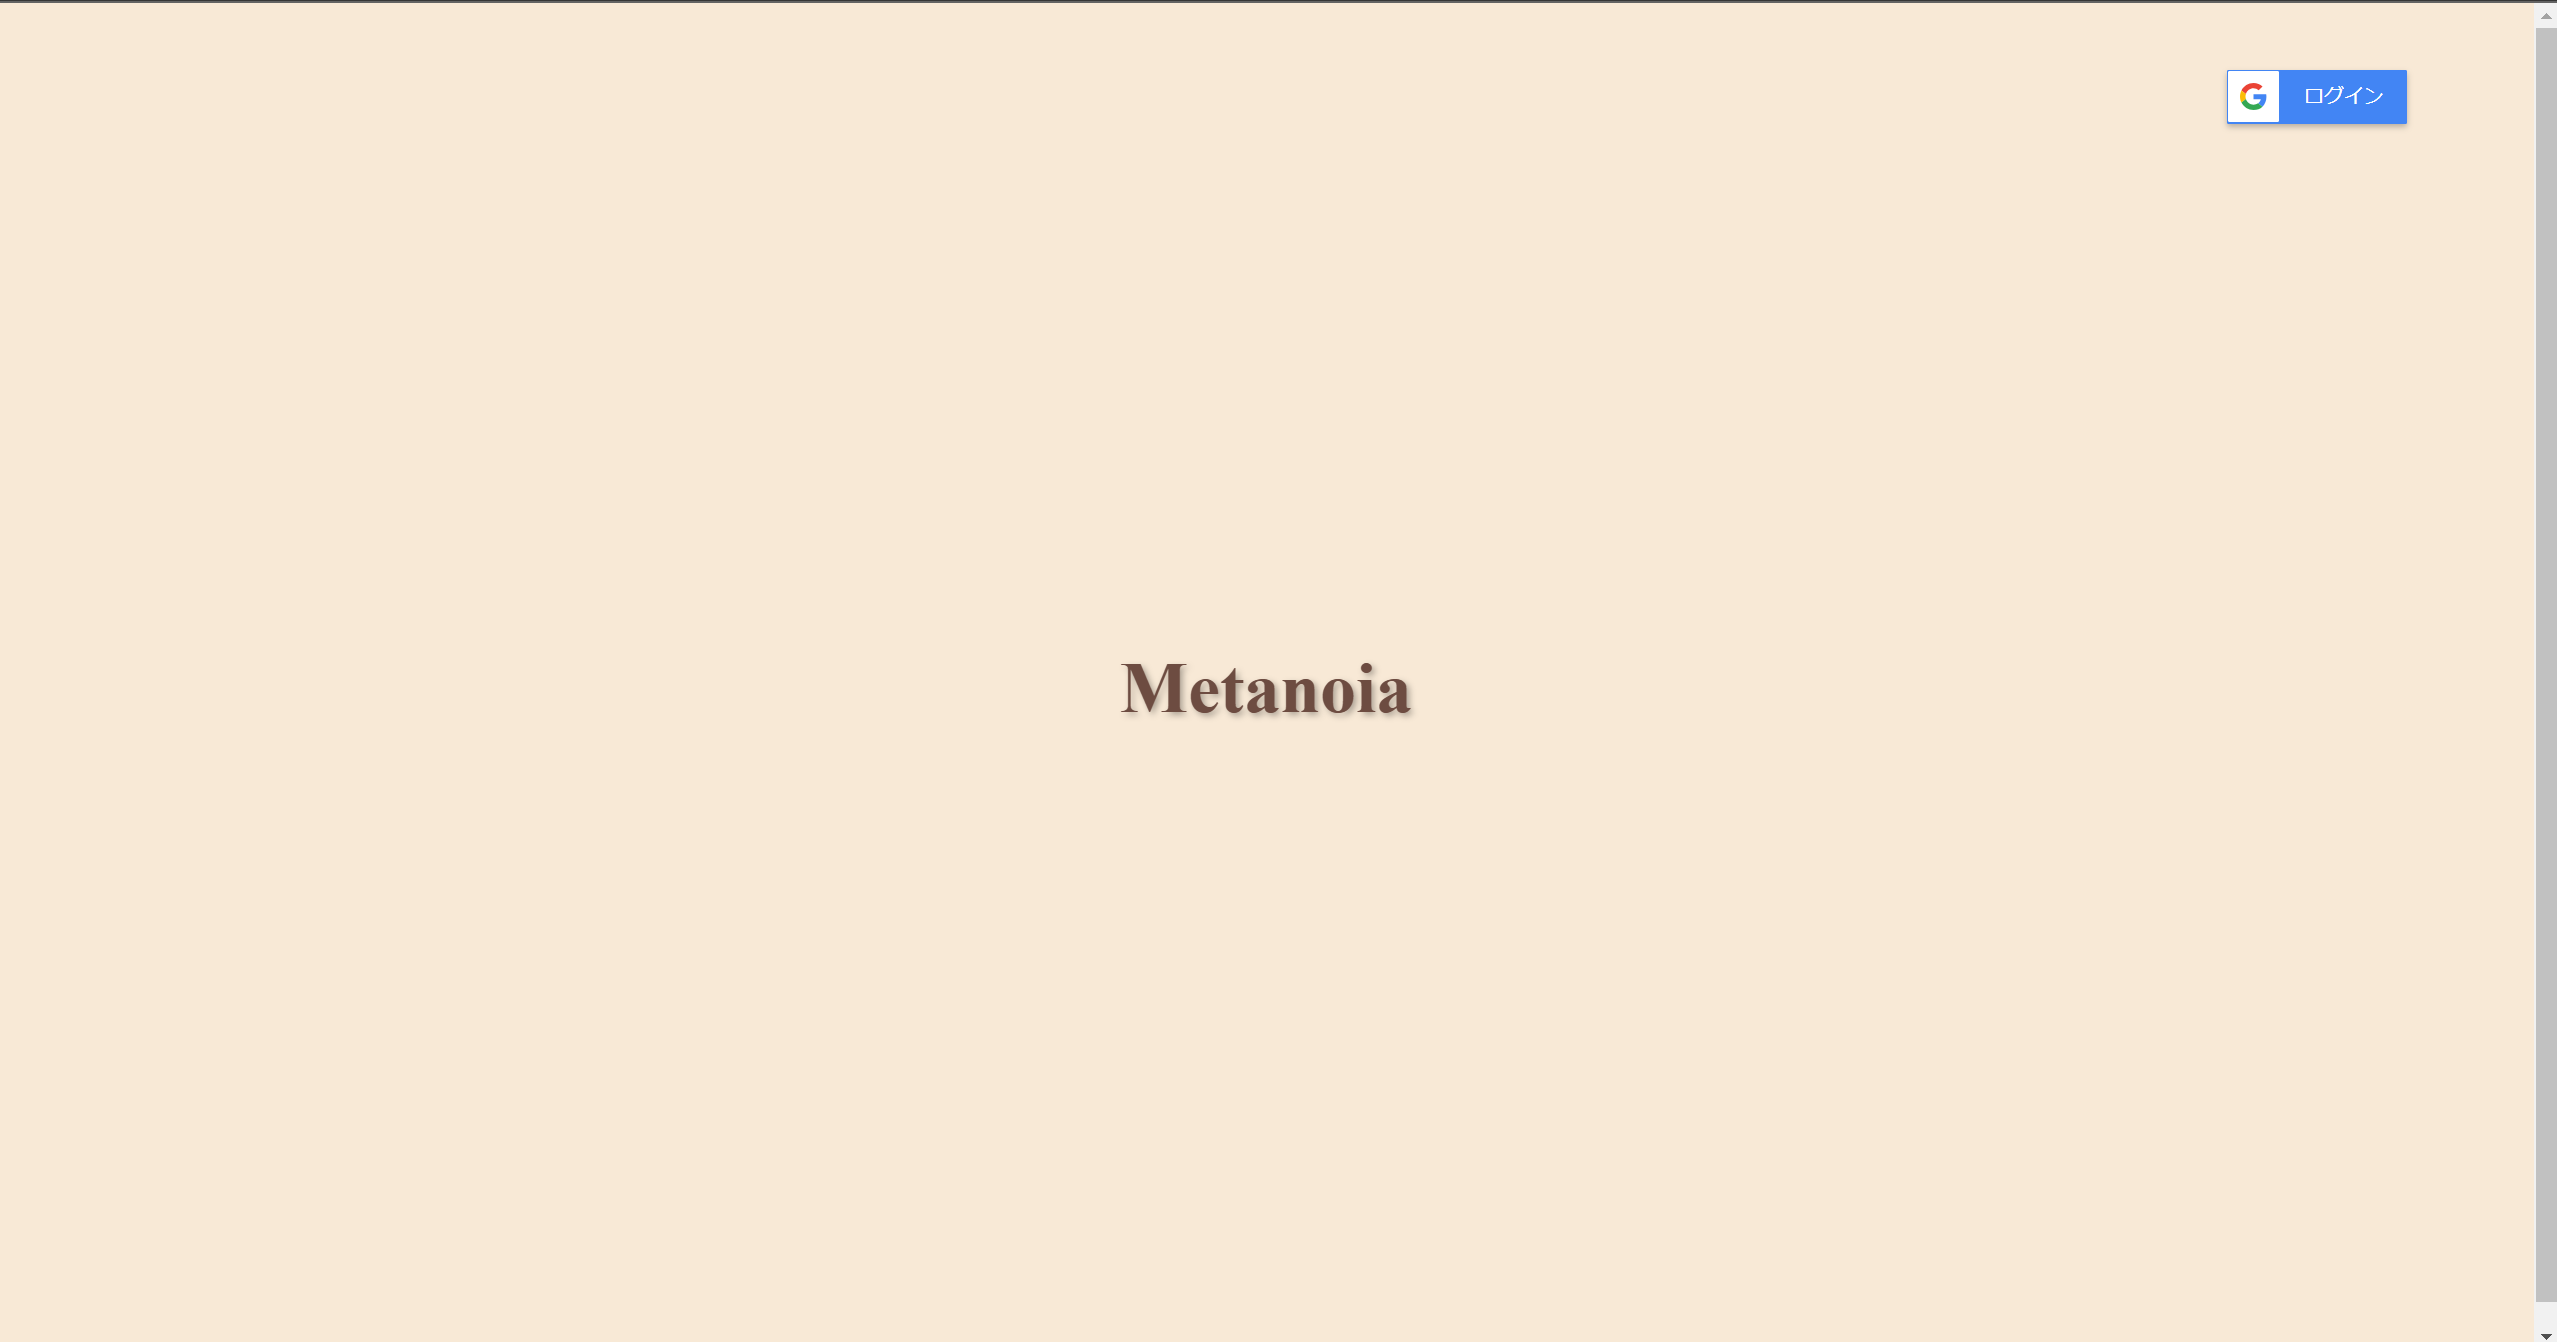
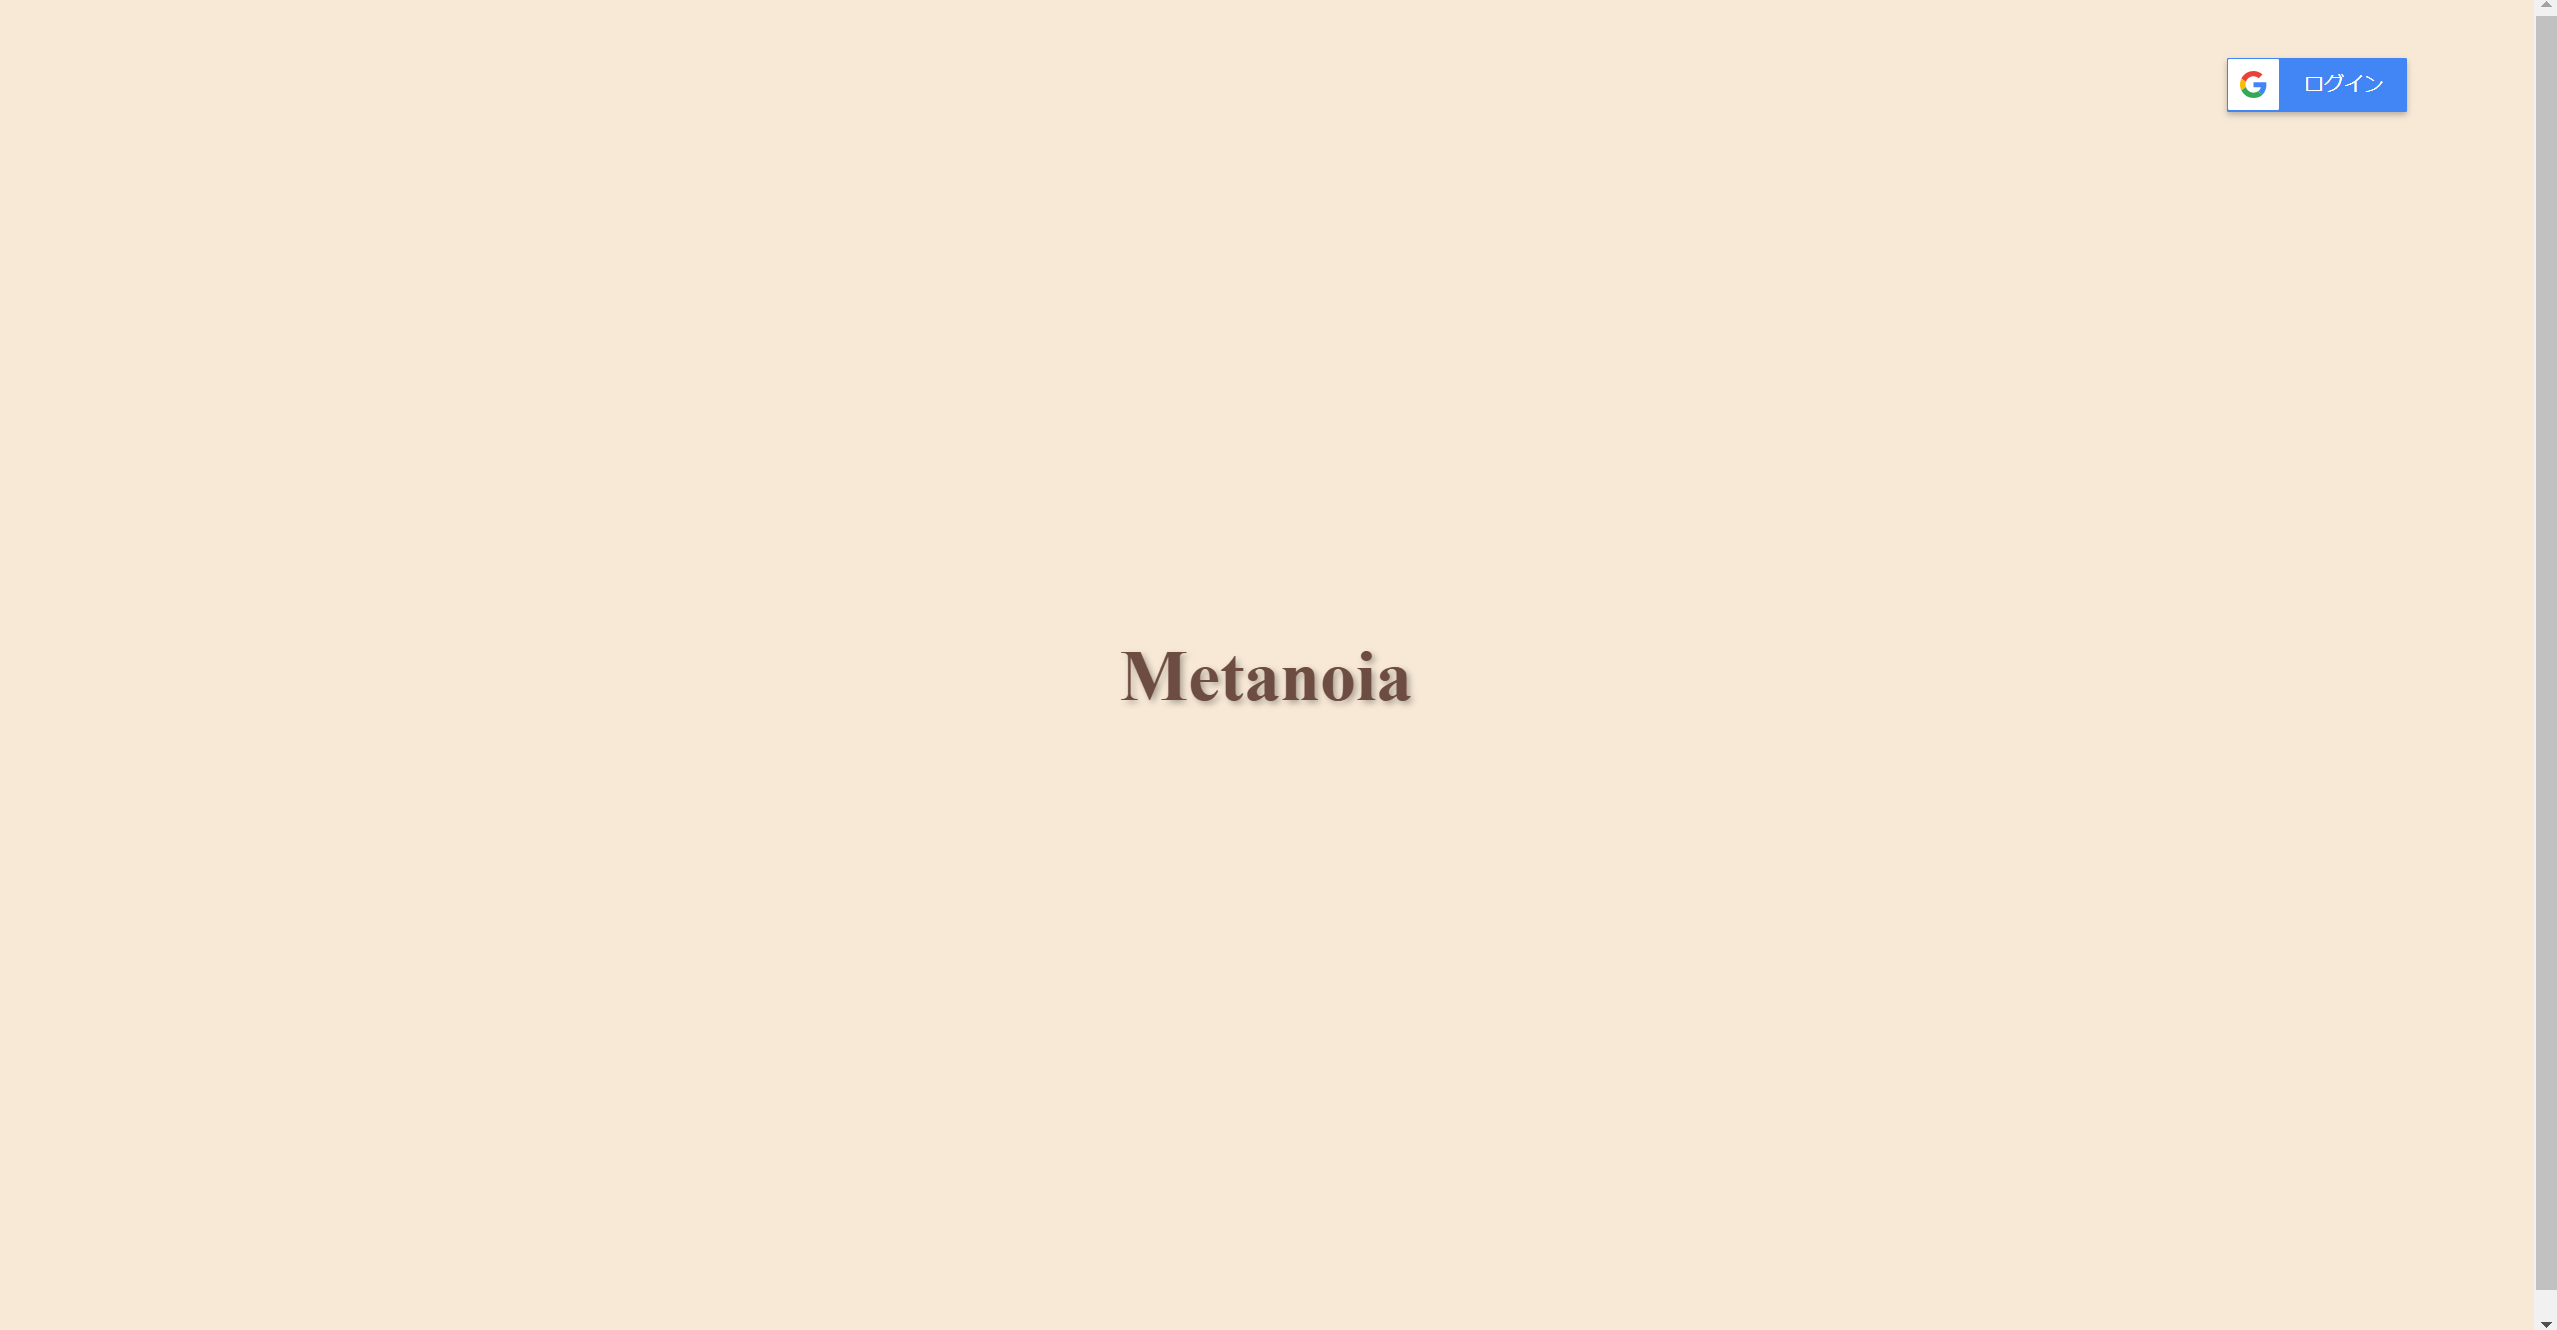
fixed image resize metanoia

Changed region(s): [[0.4325, 0.4932, 0.5561, 0.5549], [0.8651, 0.0308, 0.9578, 0.0925], [0.9887, 0.0, 1.0, 0.0308]]

diff --git a/resources/css/main.css b/resources/css/main.css
@@ -673,7 +673,7 @@
   color: var(--heading-color);
   font-size: 30px;
   font-weight: 700;
-  margin-top: 20px;
+  /* margin-top: px; */
   margin-bottom: 20px;
   text-align: center;
   letter-spacing: 1px;
